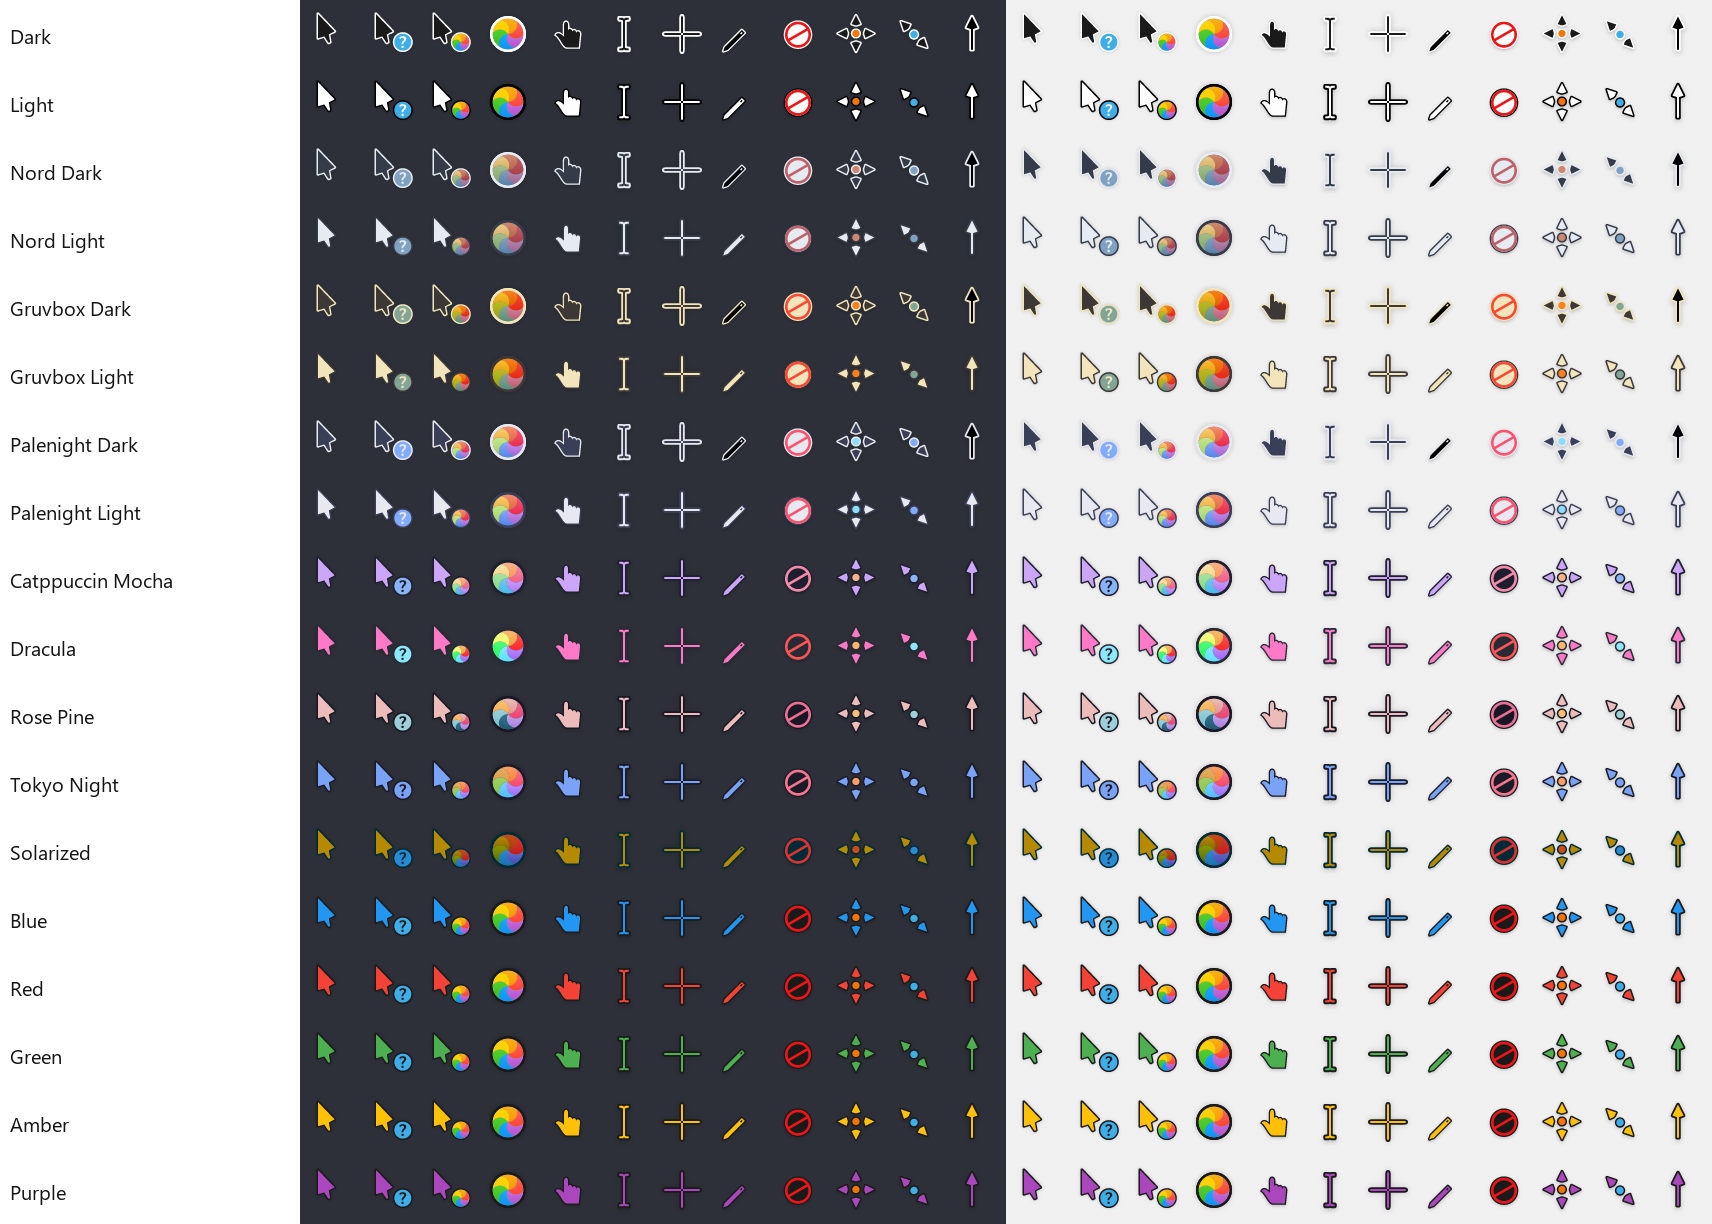
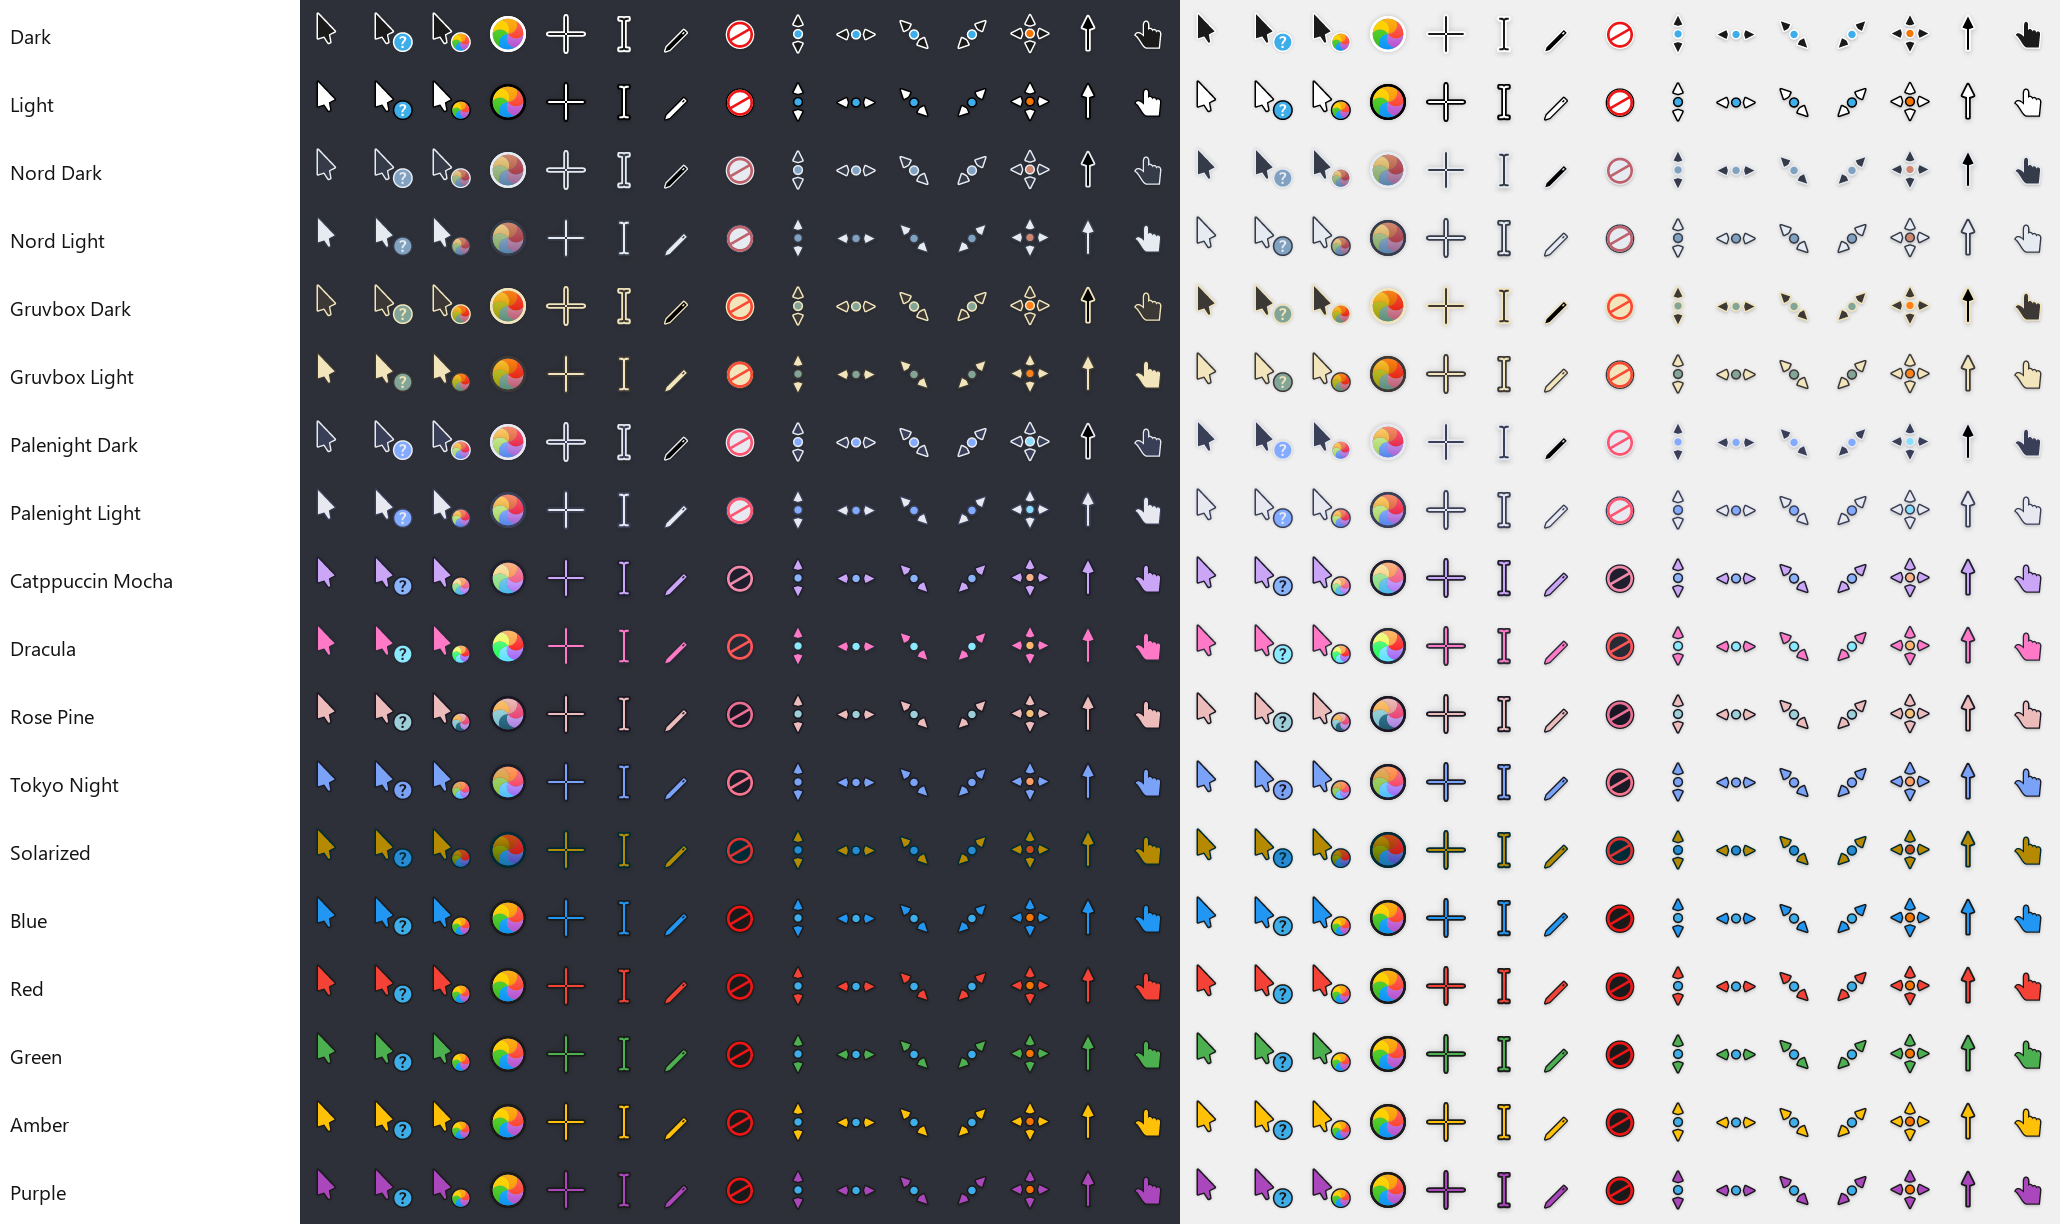
README: labelled variant sheet as the main image
With 18 variants the toolkit preview picked a light or dark background per row, so the rows alternated and had no names. docs/variants.png names every variant and shows all 15 cursors on a dark and a light background; docs/preview.png is removed.

diff --git a/README.md b/README.md
@@ -9,7 +9,7 @@ picks for your display scale and pointer size. Dark and Light, plus 16 palette a
 [![Windows 11](https://img.shields.io/badge/Windows-11-0078D4?style=flat-square)](#install)
 [![License: LGPL-3.0-or-later](https://img.shields.io/badge/license-LGPL--3.0--or--later-blue?style=flat-square)](COPYING)
 
-<img src="docs/preview.png" alt="All 15 cursors of each of the 18 variants, one row per variant in the order of the table below, each on the background it contrasts with" width="100%">
+<img src="docs/variants.png" alt="All 15 cursors of each of the 18 variants, one labelled row per variant in the order of the table below, on a dark and on a light background" width="100%">
 
 </div>
 
@@ -29,8 +29,7 @@ old ones so they don't stay in the list - the
 ## Pick a variant
 
 Each variant is its own zip, `capitaine-<variant>-w11-hidpi-v….zip`, and its own scheme,
-*Capitaine &lt;Name&gt; W11 HiDPI*. The preview above shows them in this order, top to bottom;
-[this labelled sheet](docs/variants.png) shows each one on a dark and a light background.
+*Capitaine &lt;Name&gt; W11 HiDPI*. The image at the top shows them in this order.
 
 | Variant | Zip `<variant>` | Look |
 | --- | --- | --- |
